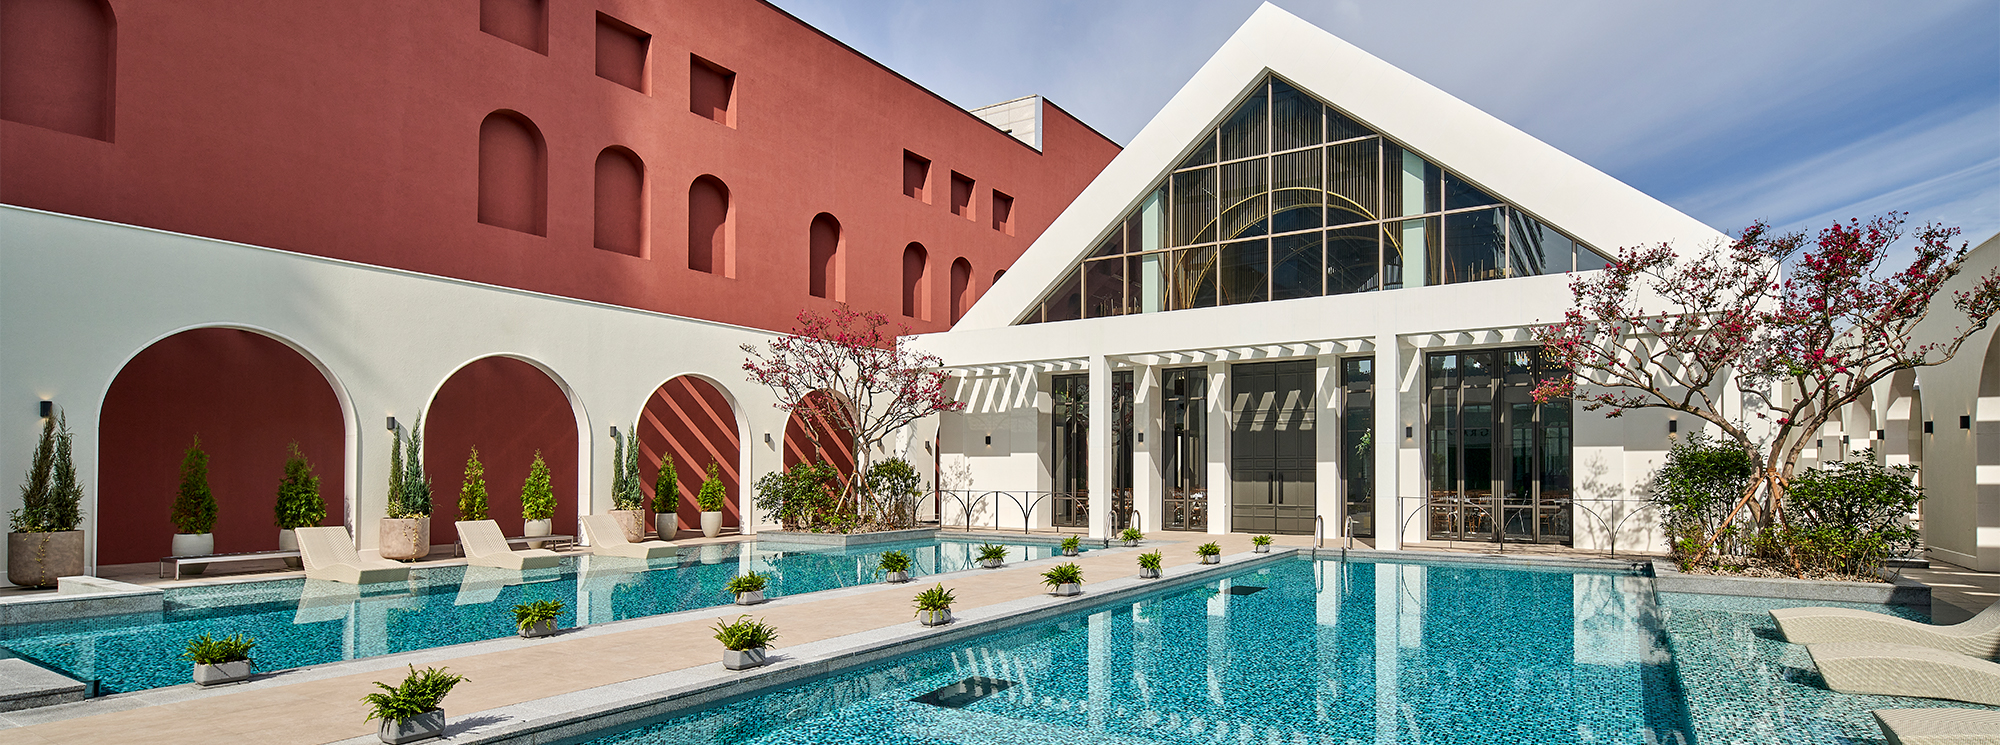
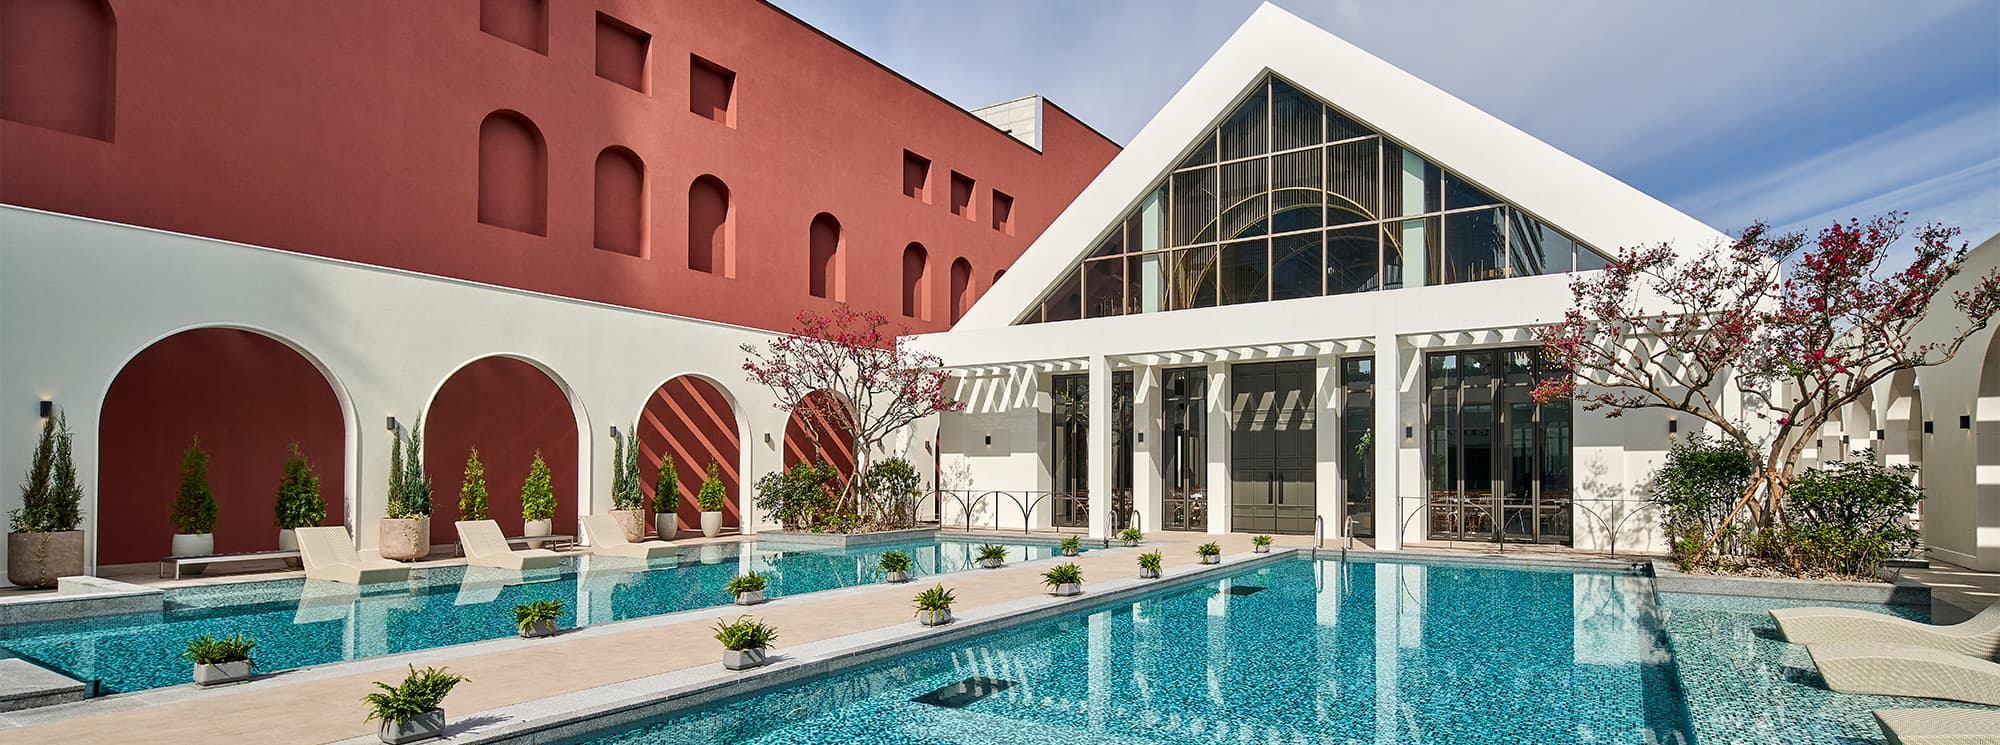
gallery test3

diff --git a/app/page.tsx b/app/page.tsx
@@ -32,7 +32,7 @@ export default function WeddingInvitation() {
   // aspect 속성을 다르게 주어 가로/세로가 자연스럽게 섞이는 메이슨리 레이아웃을 만듭니다.
   const galleryPhotos = Array.from({ length: 20 }).map((_, i) => ({
     id: i,
-    src: `/images/gallery/${i + 1}.jpg`, // public/images/gallery/ 폴더에 1.jpg~20.jpg 저장 필요
+    src: `/images/gallery/${i + 1}.jpg?v=2`, // public/images/gallery/ 폴더에 1.jpg~20.jpg 저장 필요
     aspect: i % 4 === 0 ? 'aspect-[4/3]' : i % 7 === 0 ? 'aspect-square' : 'aspect-[3/4]', 
   }));
 
@@ -153,7 +153,7 @@ export default function WeddingInvitation() {
 		>
           <div className="absolute inset-0">
             <Image
-              src="/images/main.jpg"
+              src="/images/main.jpg?v=2"
               alt="메인 웨딩 사진"
               fill
               className="object-cover object-center"
@@ -224,7 +224,7 @@ export default function WeddingInvitation() {
               className="relative w-[100%] aspect-[4/3] mx-auto mb-12 rounded-2xl overflow-hidden shadow-sm"
             >
               <Image
-                src="/images/sub_main3.jpg"
+                src="/images/sub_main3.jpg?v=2"
                 alt="신랑 신부 사진"
                 fill
                 quality={80} // 스크롤 시 나타나는 서브 사진 압축률 설정
@@ -317,7 +317,7 @@ export default function WeddingInvitation() {
               className="relative w-[100%] aspect-[3/2] mx-auto mb-10 rounded-xl overflow-hidden shadow-[0_2px_10px_rgba(0,0,0,0.03)]"
             >
               <Image
-                src="/images/sub_date.jpg" /* 👈 준비하신 가로형 스냅 사진 파일명으로 변경하세요 */
+                src="/images/sub_date.jpg?v=2" /* 👈 준비하신 가로형 스냅 사진 파일명으로 변경하세요 */
                 alt="골목길 스냅이에욥"
                 fill
                 quality={80} // 스크롤 시 로딩되므로 적절한 압축률 적용
@@ -360,7 +360,7 @@ export default function WeddingInvitation() {
             <h2 className="text-lg tracking-[0.3em] text-rose-400 mb-10 font-medium">LOCATION</h2>
             <div className="relative w-full aspect-[20/9] rounded-2xl overflow-hidden mb-10 shadow-sm mx-auto">
               <Image
-                src="/images/wedding_hall.jpg"
+                src="/images/wedding_hall.jpg?v=2"
                 priority // 지도를 보는 섹션은 정보성이 강하므로 미리 로딩
                 quality={80}
                 alt="대구 인터불고 엑스코 그랑파티오 홀 전경"
@@ -656,7 +656,7 @@ export default function WeddingInvitation() {
               className="relative w-full max-w-[400px] aspect-[3/4] bg-white rounded-2xl overflow-hidden shadow-2xl"
             >
               <Image
-                src="/images/way_to_hall.jpg" 
+                src="/images/way_to_hall.jpg?v=2" 
                 alt="오시는 길 약도"
                 fill
                 quality={70} // 팝업으로 뜨는 텍스트 위주 약도는 70%로 강하게 압축하여 번쩍임(Flash) 현상 최소화

diff --git a/next.config.ts b/next.config.ts
@@ -11,6 +11,18 @@ const nextConfig: NextConfig = {
     ],
     // 2. 추가된 설정: WebP 자동 압축률(Quality) 화이트리스트
     qualities: [25, 50, 60, 70, 75, 80, 85, 90, 100],
+localPatterns: [
+      // 1. 꼬리표가 아예 없는 기본 이미지들 허용 (네이버/카카오 아이콘 등)
+      {
+        pathname: "/**",
+        search: "", 
+      },
+      // 2. 캐시 초기화용 꼬리표(?v=2)가 붙은 이미지들 허용
+      {
+        pathname: "/**",
+        search: "?v=2",
+      },
+    ],
   },
 };
 
